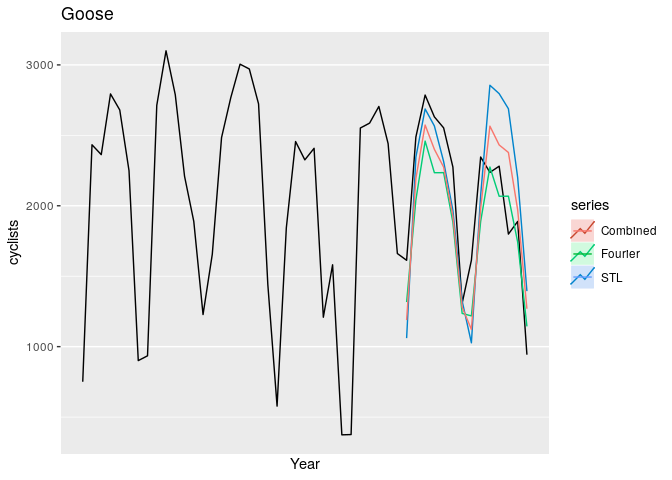
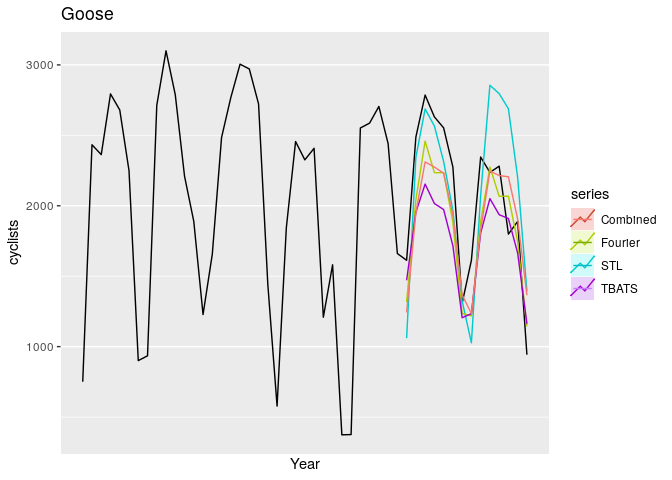
about to make changes

Changed region(s): [[0.5938, 0.2188, 0.8125, 0.7188], [0.8438, 0.375, 0.9688, 0.625], [0.7188, 0.1875, 0.75, 0.2188]]

diff --git a/code.md b/code.md
@@ -25,10 +25,7 @@ forecast based on stlf
     ## Training set 0.1230271        NA
     ## Test set     0.5073740 0.7646251
 
-Check stlf residuals
---------------------
-
-![](code_files/figure-markdown_github/stlresid-1.png)
+![](code_files/figure-markdown_github/goose-stlf-2.png)
 
     ## 
     ##  Ljung-Box test
@@ -50,10 +47,7 @@ Forecast based on Dynamic harmonic regression
     ## Training set 0.1849538        NA
     ## Test set     0.1319632 0.5857492
 
-check Dynamic harmonic regression residuals
--------------------------------------------
-
-![](code_files/figure-markdown_github/fourresid-1.png)
+![](code_files/figure-markdown_github/fourier-2.png)
 
     ## 
     ##  Ljung-Box test
@@ -63,10 +57,54 @@ check Dynamic harmonic regression residuals
     ## 
     ## Model df: 10.   Total lags used: 279.2
 
-Combine the two forecasts
--------------------------
+forecast based on TBATS
+-----------------------
 
-    ##                ME     RMSE      MAE      MPE    MAPE      ACF1 Theil's U
-    ## Test set 86.22325 329.3824 295.7657 2.608127 15.8108 0.4166697 0.6046255
+![](code_files/figure-markdown_github/goose-tbats-1.png)
+
+    ##                      ME     RMSE      MAE      MPE     MAPE      MASE
+    ## Training set   9.205277 333.8080 254.3901 -8.79447 24.41390 0.5414724
+    ## Test set     321.993898 417.4721 369.0865 13.13185 17.33003 0.7856049
+    ##                      ACF1 Theil's U
+    ## Training set -0.001343788        NA
+    ## Test set      0.258109639 0.7363362
+
+![](code_files/figure-markdown_github/goose-tbats-2.png)
+
+    ## 
+    ##  Ljung-Box test
+    ## 
+    ## data:  Residuals from TBATS(1, {3,1}, -, {<7,2>, <365.25,6>})
+    ## Q* = 363.42, df = 249.2, p-value = 3.048e-06
+    ## 
+    ## Model df: 30.   Total lags used: 279.2
+
+Deal with stat holidays
+-----------------------
+
+    ## Note: method with signature 'timeDate#numeric' chosen for function '-',
+    ##  target signature 'timeDate#Period'.
+    ##  "ANY#Period" would also be valid
+
+![](code_files/figure-markdown_github/holi-1.png)
+
+    ##                ME     RMSE     MAE      MPE     MAPE      ACF1 Theil's U
+    ## Test set 204.7914 535.5297 447.265 3.894603 24.40478 0.4536747  1.009078
+
+![](code_files/figure-markdown_github/holi-2.png)
+
+    ## 
+    ##  Ljung-Box test
+    ## 
+    ## data:  Residuals from Regression with ARIMA(5,1,1) errors
+    ## Q* = 327.95, df = 3, p-value < 2.2e-16
+    ## 
+    ## Model df: 28.   Total lags used: 31
+
+Combine the forecasts
+---------------------
+
+    ##                ME     RMSE      MAE      MPE     MAPE      ACF1 Theil's U
+    ## Test set 174.8079 354.4214 305.3499 5.560677 16.01827 0.3849775  0.660883
 
 ![](code_files/figure-markdown_github/plots-1.png)
